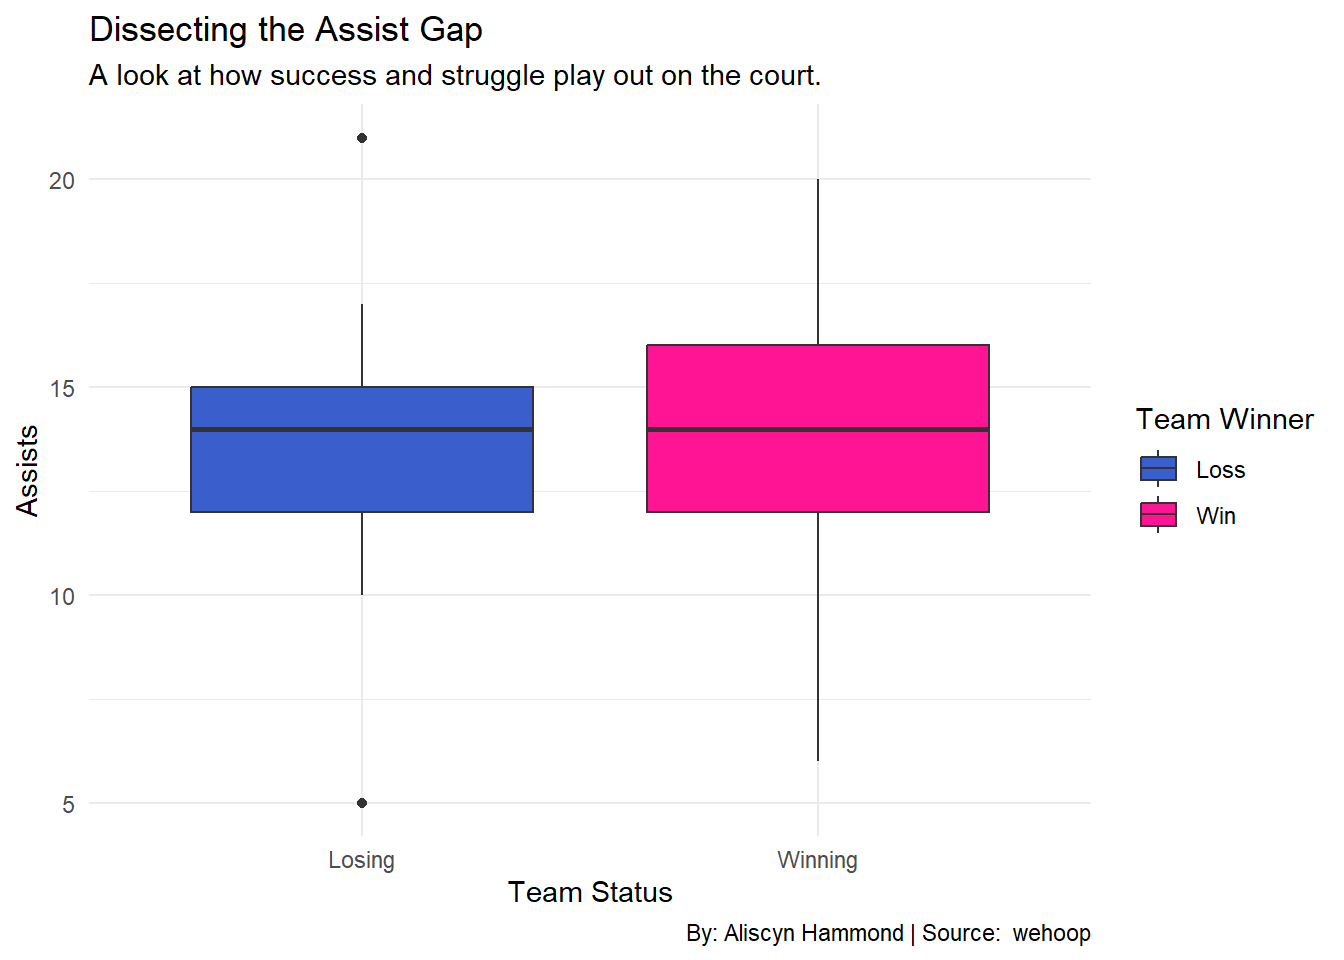
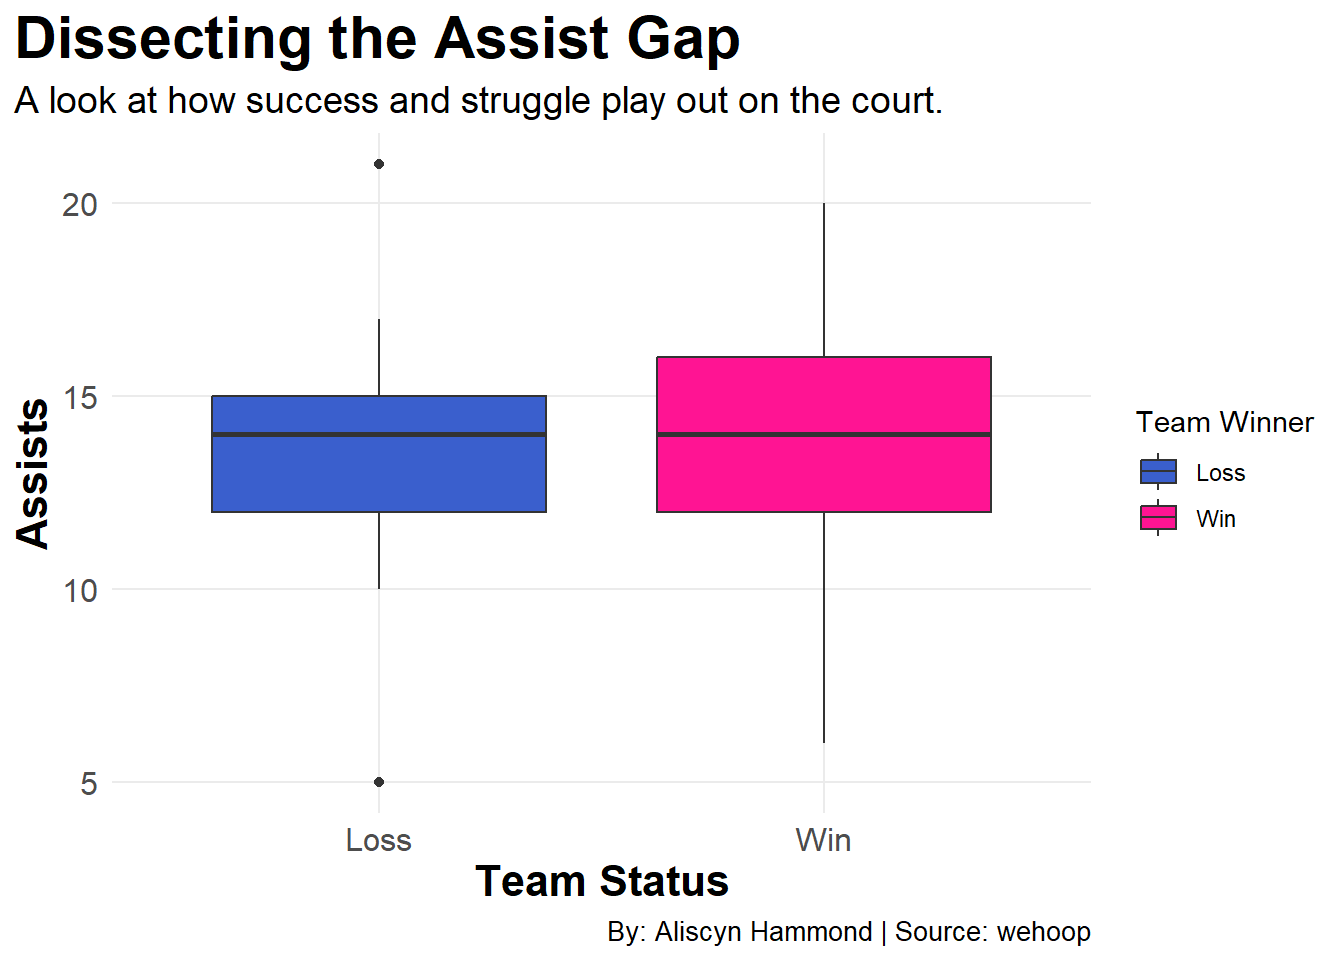
changed up boxplot

diff --git a/posts/elite-eight-women-basketball/index.html b/posts/elite-eight-women-basketball/index.html
@@ -318,18 +318,26 @@ pre > code.sourceCode > span > a:first-child::before { text-decoration: underlin
 <div class="sourceCode cell-code" id="cb3"><pre class="sourceCode r code-with-copy"><code class="sourceCode r"><span id="cb3-1"><a href="#cb3-1" aria-hidden="true" tabindex="-1"></a><span class="fu">library</span>(tidyverse)</span>
 <span id="cb3-2"><a href="#cb3-2" aria-hidden="true" tabindex="-1"></a><span class="fu">library</span>(ggplot2)</span>
 <span id="cb3-3"><a href="#cb3-3" aria-hidden="true" tabindex="-1"></a></span>
-<span id="cb3-4"><a href="#cb3-4" aria-hidden="true" tabindex="-1"></a><span class="fu">ggplot</span>(elite, <span class="fu">aes</span>(<span class="at">x =</span> <span class="fu">factor</span>(team_winner, <span class="at">labels =</span> <span class="fu">c</span>(<span class="st">"Losing"</span>, <span class="st">"Winning"</span>)), <span class="at">y =</span> assists, <span class="at">fill =</span> team_winner)) <span class="sc">+</span></span>
+<span id="cb3-4"><a href="#cb3-4" aria-hidden="true" tabindex="-1"></a><span class="fu">ggplot</span>(elite, <span class="fu">aes</span>(<span class="at">x =</span> <span class="fu">factor</span>(team_winner, <span class="at">labels =</span> <span class="fu">c</span>(<span class="st">"Loss"</span>, <span class="st">"Win"</span>)), <span class="at">y =</span> assists, <span class="at">fill =</span> team_winner)) <span class="sc">+</span></span>
 <span id="cb3-5"><a href="#cb3-5" aria-hidden="true" tabindex="-1"></a>  <span class="fu">geom_boxplot</span>() <span class="sc">+</span></span>
 <span id="cb3-6"><a href="#cb3-6" aria-hidden="true" tabindex="-1"></a>  <span class="fu">labs</span>(<span class="at">title =</span> <span class="st">"Dissecting the Assist Gap"</span>,</span>
 <span id="cb3-7"><a href="#cb3-7" aria-hidden="true" tabindex="-1"></a>       <span class="at">subtitle =</span> <span class="st">"A look at how success and struggle play out on the court."</span>,</span>
 <span id="cb3-8"><a href="#cb3-8" aria-hidden="true" tabindex="-1"></a>       <span class="at">x =</span> <span class="st">"Team Status"</span>,</span>
 <span id="cb3-9"><a href="#cb3-9" aria-hidden="true" tabindex="-1"></a>       <span class="at">y =</span> <span class="st">"Assists"</span>,</span>
-<span id="cb3-10"><a href="#cb3-10" aria-hidden="true" tabindex="-1"></a>       <span class="at">caption =</span> <span class="st">"By: Aliscyn Hammond | Source:  wehoop"</span>) <span class="sc">+</span></span>
+<span id="cb3-10"><a href="#cb3-10" aria-hidden="true" tabindex="-1"></a>       <span class="at">caption =</span> <span class="st">"By: Aliscyn Hammond | Source: wehoop"</span>) <span class="sc">+</span></span>
 <span id="cb3-11"><a href="#cb3-11" aria-hidden="true" tabindex="-1"></a>  <span class="fu">scale_fill_manual</span>(<span class="at">values =</span> <span class="fu">c</span>(<span class="st">"royalblue3"</span>, <span class="st">"deeppink"</span>),</span>
 <span id="cb3-12"><a href="#cb3-12" aria-hidden="true" tabindex="-1"></a>                    <span class="at">name=</span> <span class="st">"Team Winner"</span>,</span>
 <span id="cb3-13"><a href="#cb3-13" aria-hidden="true" tabindex="-1"></a>                    <span class="at">labels=</span><span class="fu">c</span>(<span class="st">"Loss"</span>,<span class="st">"Win"</span>)</span>
 <span id="cb3-14"><a href="#cb3-14" aria-hidden="true" tabindex="-1"></a>                    ) <span class="sc">+</span></span>
-<span id="cb3-15"><a href="#cb3-15" aria-hidden="true" tabindex="-1"></a>  <span class="fu">theme_minimal</span>()</span></code><button title="Copy to Clipboard" class="code-copy-button"><i class="bi"></i></button></pre></div>
+<span id="cb3-15"><a href="#cb3-15" aria-hidden="true" tabindex="-1"></a>  <span class="fu">theme_minimal</span>()<span class="sc">+</span></span>
+<span id="cb3-16"><a href="#cb3-16" aria-hidden="true" tabindex="-1"></a>  <span class="fu">theme</span>(</span>
+<span id="cb3-17"><a href="#cb3-17" aria-hidden="true" tabindex="-1"></a>       <span class="at">plot.title =</span> <span class="fu">element_text</span>(<span class="at">face =</span> <span class="st">"bold"</span>, <span class="at">size =</span> <span class="dv">22</span>),</span>
+<span id="cb3-18"><a href="#cb3-18" aria-hidden="true" tabindex="-1"></a>    <span class="at">plot.subtitle =</span> <span class="fu">element_text</span>(<span class="at">size =</span> <span class="dv">14</span>),</span>
+<span id="cb3-19"><a href="#cb3-19" aria-hidden="true" tabindex="-1"></a>    <span class="at">axis.title =</span> <span class="fu">element_text</span>(<span class="at">size =</span> <span class="dv">16</span>,<span class="at">face=</span><span class="st">"bold"</span>),                 </span>
+<span id="cb3-20"><a href="#cb3-20" aria-hidden="true" tabindex="-1"></a>    <span class="at">axis.text =</span> <span class="fu">element_text</span>(<span class="at">size =</span> <span class="dv">12</span>),</span>
+<span id="cb3-21"><a href="#cb3-21" aria-hidden="true" tabindex="-1"></a>    <span class="at">plot.caption=</span> <span class="fu">element_text</span>(<span class="at">size=</span><span class="dv">10</span>,<span class="at">hjust=</span><span class="dv">1</span>),</span>
+<span id="cb3-22"><a href="#cb3-22" aria-hidden="true" tabindex="-1"></a>    <span class="at">panel.grid.minor =</span> <span class="fu">element_blank</span>(),</span>
+<span id="cb3-23"><a href="#cb3-23" aria-hidden="true" tabindex="-1"></a>    <span class="at">plot.title.position =</span> <span class="st">"plot"</span>)</span></code><button title="Copy to Clipboard" class="code-copy-button"><i class="bi"></i></button></pre></div>
 </details>
 <div class="cell-output-display">
 <div>

diff --git a/index.html b/index.html
@@ -210,7 +210,7 @@ window.Quarto = {
 
 <div class="quarto-listing quarto-listing-container-default" id="listing-listing">
 <div class="list quarto-listing-default">
-<div class="quarto-post image-right" data-index="0" data-categories="YmFza2V0YmFsbCx3b21lbiBzcG9ydHMsZWxpdGUgZWlnaHQ=" data-listing-date-sort="1731304800000" data-listing-file-modified-sort="1731795817462" data-listing-date-modified-sort="NaN" data-listing-reading-time-sort="8" data-listing-word-count-sort="1405">
+<div class="quarto-post image-right" data-index="0" data-categories="YmFza2V0YmFsbCx3b21lbiBzcG9ydHMsZWxpdGUgZWlnaHQ=" data-listing-date-sort="1731304800000" data-listing-file-modified-sort="1731797626550" data-listing-date-modified-sort="NaN" data-listing-reading-time-sort="8" data-listing-word-count-sort="1478">
 <div class="thumbnail">
 <p><a href="./posts/elite-eight-women-basketball/index.html" class="no-external"></a></p><a href="./posts/elite-eight-women-basketball/index.html" class="no-external">
 <p><img loading="lazy" src="./posts/elite-eight-women-basketball/image.png" class="thumbnail-image"></p>
